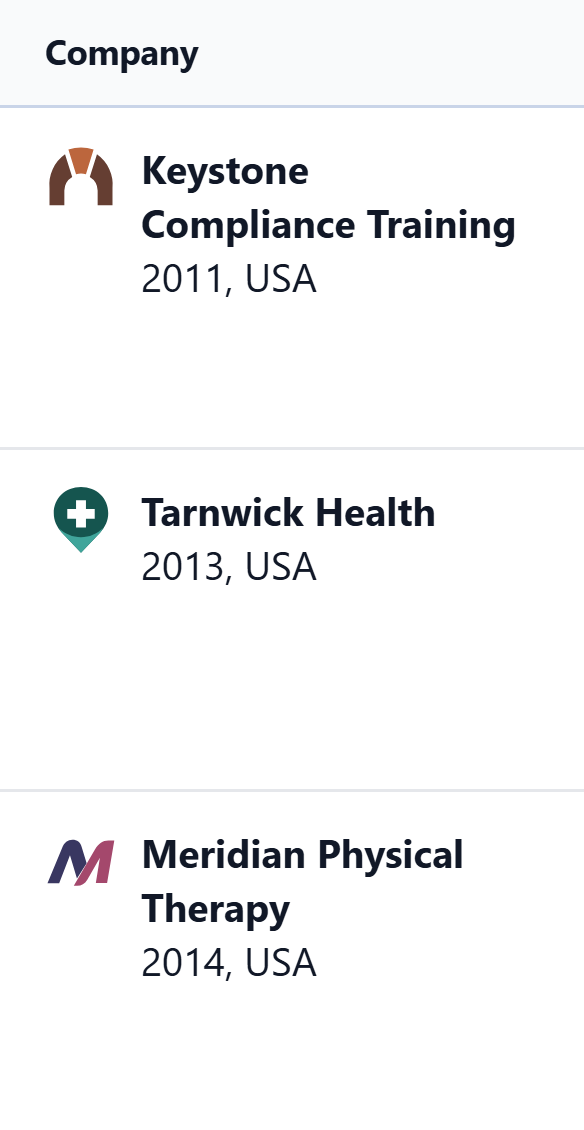
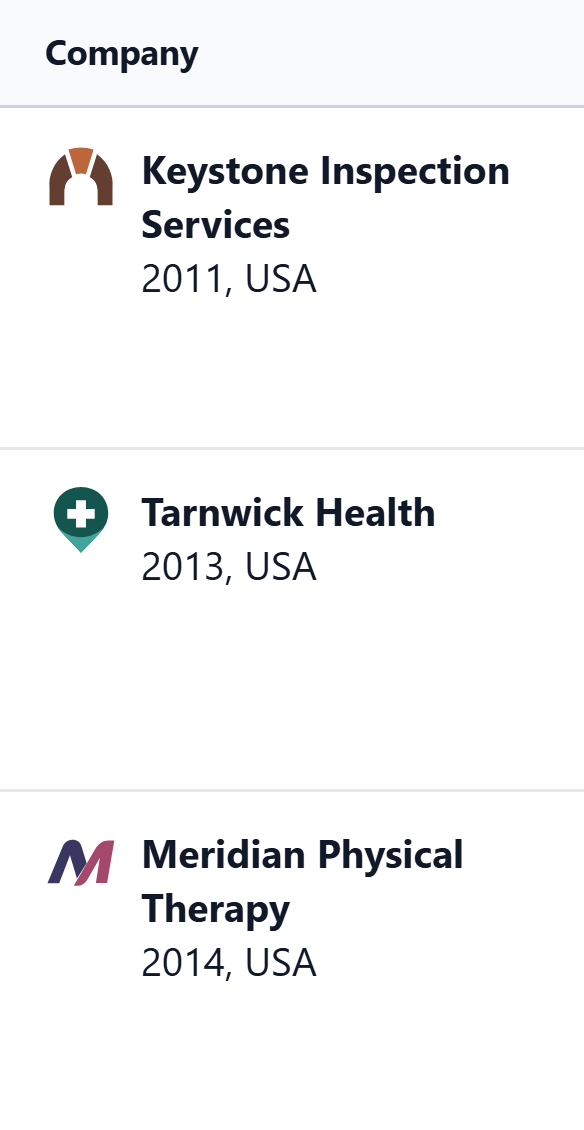
Broaden the sample portfolio with fleet software and inspection services

Changed region(s): [[0.2466, 0.1239, 0.8938, 0.2168]]

diff --git a/index.html b/index.html
@@ -1345,7 +1345,7 @@ h2 .soft { color:inherit; }
 <g class="lt" data-i="card1"><rect class="halo" x="669.0" y="467.0" width="210.6" height="122.8" rx="16.1" ry="33.1" fill="none" stroke="#6FAEF0" stroke-opacity=".28" stroke-width="10"/>
 <rect x="672.0" y="470.0" width="204.6" height="116.8" rx="14.1" ry="31.1" fill="#6FAEF0" fill-opacity=".12" stroke="#6FAEF0" stroke-width="2.5"/><g transform="translate(672.0 470.0) scale(1.279 2.931)"><rect x="9" y="8.5" width="24" height="23" rx="6" fill="#6FAEF0" fill-opacity=".3"/><text x="21" y="24" text-anchor="middle" font-size="10" font-weight="650" fill="#6FAEF0">TH</text><text x="41" y="17.5" font-size="11.5" font-weight="650" fill="#fff">New prospect</text><text x="41" y="31" font-size="10.5" fill="#fff" fill-opacity=".8">Tarnwick Health</text></g></g>
 <g class="lt" data-i="card2"><rect class="halo" x="621.0" y="822.0" width="188.1" height="102.7" rx="14.5" ry="27.7" fill="none" stroke="#D9A9C2" stroke-opacity=".28" stroke-width="10"/>
-<rect x="624.0" y="825.0" width="182.1" height="96.7" rx="12.5" ry="25.7" fill="#D9A9C2" fill-opacity=".12" stroke="#D9A9C2" stroke-width="2.5"/><g transform="translate(624.0 825.0) scale(1.138 2.428)"><rect x="9" y="8.5" width="24" height="23" rx="6" fill="#D9A9C2" fill-opacity=".3"/><text x="21" y="24" text-anchor="middle" font-size="10" font-weight="650" fill="#D9A9C2">HL</text><text x="41" y="17.5" font-size="11.5" font-weight="650" fill="#fff">Diligence document</text><text x="41" y="31" font-size="9.2" fill="#fff" fill-opacity=".8">Halden Learning Systems</text></g></g>
+<rect x="624.0" y="825.0" width="182.1" height="96.7" rx="12.5" ry="25.7" fill="#D9A9C2" fill-opacity=".12" stroke="#D9A9C2" stroke-width="2.5"/><g transform="translate(624.0 825.0) scale(1.138 2.428)"><rect x="9" y="8.5" width="24" height="23" rx="6" fill="#D9A9C2" fill-opacity=".3"/><text x="21" y="24" text-anchor="middle" font-size="10" font-weight="650" fill="#D9A9C2">HF</text><text x="41" y="17.5" font-size="11.5" font-weight="650" fill="#fff">Diligence document</text><text x="41" y="31" font-size="9.2" fill="#fff" fill-opacity=".8">Halden Fleet Systems</text></g></g>
 <g class="lt" data-i="card0"><rect class="halo" x="565.0" y="1169.0" width="172.3" height="79.5" rx="13.4" ry="21.6" fill="none" stroke="#6FCB9B" stroke-opacity=".28" stroke-width="10"/>
 <rect x="568.0" y="1172.0" width="166.3" height="73.5" rx="11.4" ry="19.6" fill="#6FCB9B" fill-opacity=".12" stroke="#6FCB9B" stroke-width="2.5"/><g transform="translate(568.0 1172.0) scale(1.039 1.845)"><rect x="9" y="8.5" width="24" height="23" rx="6" fill="#6FCB9B" fill-opacity=".3"/><text x="21" y="24" text-anchor="middle" font-size="10" font-weight="650" fill="#6FCB9B">CL</text><text x="41" y="17.5" font-size="11.5" font-weight="650" fill="#fff">Customer KPIs</text><text x="41" y="31" font-size="10.5" fill="#fff" fill-opacity=".8">Corvel Learning</text></g></g>
 <g class="lt" data-i="card3"><rect class="halo" x="517.0" y="1453.0" width="161.3" height="59.3" rx="12.7" ry="16.2" fill="none" stroke="#E2C27E" stroke-opacity=".28" stroke-width="10"/>
@@ -1358,7 +1358,7 @@ h2 .soft { color:inherit; }
       <button type="button" class="pause m17p" id="m17p" aria-label="Pause the moving picture"><svg viewBox="0 0 10 10" aria-hidden="true"><path d="M1 0h3v10H1zM6 0h3v10H6z"/></svg></button>
       <ol>
         <li class="card" id="card1" style="--sc:#6FAEF0" data-s="0"><span class="who"><i style="--c:var(--d0)"></i><b>Tarnwick Health</b> Sourcing</span><span class="why">Scores 91 of 100 against your criteria</span><a class="next" href="#sourcing-queue" data-sourcing-link>See why Tarnwick scored 91</a></li>
-        <li class="card" id="card2" style="--sc:#D9A9C2" data-s="1"><span class="who"><i style="--c:var(--d1)"></i><b>Halden Learning Systems</b> Prospect evaluation</span><span class="why">Red flag: $1.9M of FY26 EBITDA is one-time</span><a class="next" href="#evaluation">See the adjustments before you bid</a></li>
+        <li class="card" id="card2" style="--sc:#D9A9C2" data-s="1"><span class="who"><i style="--c:var(--d1)"></i><b>Halden Fleet Systems</b> Prospect evaluation</span><span class="why">Red flag: $1.9M of FY26 EBITDA is one-time</span><a class="next" href="#evaluation">See the adjustments before you bid</a></li>
         <li class="card" id="card0" style="--sc:#6FCB9B" data-s="2" data-t="3"><span class="who"><i style="--c:var(--d2)"></i><b>Corvel Learning</b> Portfolio monitoring</span><span class="why">$1.2M of ARR lost across 41 customers in FY26</span><a class="next" href="#corvel-retention">Compare Corvel’s retention with its peers</a></li>
         <li class="card" id="card3" style="--sc:#E2C27E" data-s="3"><span class="who"><i style="--c:var(--d3)"></i><b>Corvel Learning</b> Value creation</span><span class="why">A plan to improve net retention</span><a class="next" href="#value-creation">See the plan, ranked by what to act on first</a></li>
       </ol>
@@ -1376,14 +1376,14 @@ h2 .soft { color:inherit; }
     <div class="k2">
       <figure class="k2f">
         <div class="k2tags" aria-hidden="true"><span style="--r:43.6%">Marketed figures</span><span style="--r:20.8%">Portfolio actuals</span><span style="--r:1.9%">Nine holdings</span></div>
-        <img class="crop k2wide" src="assets/asset-02.png?v=compact-header" width="1076" height="374" alt="Part of the comparison view, with invented data: Halden Learning Systems’ marketed FY26 figures, Corvel Learning’s FY26 actuals, and the portfolio median across nine holdings. Revenue $51.0M, $31.0M and $58.2M. ARR $46.8M, $28.6M and $41.5M. Revenue growth 18.5%, 14.2% and 13.6%. EBITDA $16.2M, $7.4M and $11.4M. EBITDA margin 31.8%, 23.9% and 19.6%.">
+        <img class="crop k2wide" src="assets/asset-02.png?v=fleet-systems" width="1076" height="374" alt="Part of the comparison view, with invented data: Halden Fleet Systems’ marketed FY26 figures, Corvel Learning’s FY26 actuals, and the portfolio median across nine holdings. Revenue $51.0M, $31.0M and $58.2M. ARR $46.8M, $28.6M and $41.5M. Revenue growth 18.5%, 14.2% and 13.6%. EBITDA $16.2M, $7.4M and $11.4M. EBITDA margin 31.8%, 23.9% and 19.6%.">
         <div class="k2st">
           <table class="company-comparison" aria-label="FY26 revenue growth and EBITDA margin">
             <thead>
               <tr><th scope="col">Company</th><th scope="col">Revenue growth</th><th scope="col">EBITDA margin</th></tr>
             </thead>
             <tbody>
-              <tr><th scope="row">Halden<span>Marketed figures</span></th><td>18.5%</td><td>31.8%</td></tr>
+              <tr><th scope="row">Halden Fleet<span>Marketed figures</span></th><td>18.5%</td><td>31.8%</td></tr>
               <tr><th scope="row">Corvel<span>Portfolio actuals</span></th><td>14.2%</td><td>23.9%</td></tr>
               <tr><th scope="row">Portfolio median<span>Nine holdings</span></th><td>13.6%</td><td>19.6%</td></tr>
             </tbody>
@@ -1403,15 +1403,15 @@ h2 .soft { color:inherit; }
     <div class="panel q4">
 
       <div id="sourcing-queue" role="group" aria-label="Prospects ranked by fit score" tabindex="-1">
-      <img class="crop q4wide" src="assets/asset-03.png?v=prospect-marks" width="1033" height="565" alt="Description, Strategic Fit and Concerns for the first three prospects by fit score. Invented data. Keystone Compliance Training, 92: mandated yearly training makes renewals dependable; main concern, two hospital systems make up a large share of revenue. Tarnwick Health, 91: agencies use it every shift to meet state visit-verification rules, so customers stay through staff turnover; main concern, most customers are in three states. Meridian Physical Therapy, 88: a dense clinic footprint with room to add sites in neighboring counties; main concern, therapist hiring sets the pace of new clinic openings.">
+      <img class="crop q4wide" src="assets/asset-03.png?v=keystone-inspection" width="1033" height="565" alt="Description, Strategic Fit and Concerns for the first three prospects by fit score. Invented data. Keystone Inspection Services scores 92. It tests fire alarms and sprinklers at commercial properties. Multi-year contracts cover annual inspections. Two property managers account for a large share of revenue. Tarnwick Health, 91: agencies use it every shift to meet state visit-verification rules, so customers stay through staff turnover; main concern, most customers are in three states. Meridian Physical Therapy, 88: a dense clinic footprint with room to add sites in neighboring counties; main concern, therapist hiring sets the pace of new clinic openings.">
       <div class="q4narrow">
         <ol class="sourcing-prospects" role="list" aria-label="First three prospects by fit score, with invented data">
           <li>
             <details>
-              <summary><span class="prospect-identity"><img src="assets/keystone-compliance-mark.svg" width="24" height="24" alt="">Keystone Compliance Training</span><strong><span class="sr">Fit score </span>92<span aria-hidden="true">/100</span><span class="sr"> out of 100</span></strong></summary>
+              <summary><span class="prospect-identity"><img src="assets/keystone-inspection-mark.svg" width="24" height="24" alt="">Keystone Inspection Services</span><strong><span class="sr">Fit score </span>92<span aria-hidden="true">/100</span><span class="sr"> out of 100</span></strong></summary>
               <div class="prospect-evidence">
-                <p>Online compliance courses for healthcare employers.</p>
-                <dl><dt>Strategic fit</dt><dd>Mandated yearly training makes renewals dependable.</dd><dt>Concern</dt><dd>Two hospital systems make up a large share of revenue.</dd></dl>
+                <p>Tests fire alarms and sprinklers at commercial properties.</p>
+                <dl><dt>Strategic fit</dt><dd>Multi-year contracts cover annual inspections.</dd><dt>Concern</dt><dd>Two property managers account for a large share of revenue.</dd></dl>
               </div>
             </details>
           </li>
@@ -1455,7 +1455,7 @@ h2 .soft { color:inherit; }
     <div class="evaluation-exhibits">
       <figure class="evaluation-file" aria-label="Halden’s diligence checklist and draft investment committee memo">
         <div class="diligence-checklist">
-          <p class="diligence-company">Halden Learning Systems</p>
+          <p class="diligence-company">Halden Fleet Systems</p>
           <p class="diligence-heading"><b>Diligence checklist</b><span>2 red flags, 2 not started</span></p>
           <button class="diligence-toggle" type="button" aria-expanded="false" aria-controls="workstreams"><strong>Halden’s diligence checklist</strong><span>2 red flags, 2 not started</span></button>
           <ol id="workstreams" role="list">
@@ -1475,16 +1475,16 @@ h2 .soft { color:inherit; }
           <g data-from="t-tech" data-to="m-tech"><path fill="none" stroke-dasharray="2 4"/><circle r="2.4" stroke="none"/><circle r="2.4" stroke="none"/></g>
         </svg>
         <div class="diligence-memo">
-          <p class="memo-title"><b>IC Synthesis</b><span>Halden Learning Systems, draft</span></p>
+          <p class="memo-title"><b>IC Synthesis</b><span>Halden Fleet Systems, draft</span></p>
           <p class="memo-heading">Executive summary</p>
-          <p>Workforce learning. FY26 revenue $51.0M, EBITDA $16.2M.</p>
+          <p>Fleet maintenance software for commercial operators. FY26 revenue $51.0M, EBITDA $16.2M.</p>
           <p class="memo-heading">Financial analysis</p>
           <p>Revenue growth 18.5%, EBITDA margin 31.8%.</p>
           <p class="memo-heading">Market &amp; competition</p>
           <p>Its closest rival has just been acquired.</p>
           <p class="memo-heading">Key risks &amp; mitigants</p>
           <p class="memo-risk" id="m-fin"><i class="diligence-flag"></i>Red flag: $1.9M of FY26 EBITDA is one-time</p>
-          <p class="memo-risk" id="m-tech"><i class="diligence-flag"></i>Red flag: aging course platform</p>
+          <p class="memo-risk" id="m-tech"><i class="diligence-flag"></i>Red flag: aging work-order platform</p>
         </div>
       </figure>
     </div>
@@ -1625,12 +1625,12 @@ h2 .soft { color:inherit; }
     </div>
     <div class="src2">
       <figure class="chg9">
-        <img class="crop" src="assets/asset-09.png" width="470" height="323" alt="The What changed panel of the FirmCortex Home page, with invented data. Five changes, each with a link to its source: competitor news on a live deal, Halden Learning Systems; its financials ingested, FY2026 revenue 51.0 million dollars and EBITDA 16.2 million; competitor news on a portfolio company, Corvel Learning; a market study completed; and news on a portfolio company, Aldergate Services.">
+        <img class="crop" src="assets/asset-09.png?v=fleet-systems" width="470" height="323" alt="What changed feed with illustrative data. A strategic buyer acquired Halden Fleet Systems’ closest fleet software rival. Halden reported $51.0M revenue and $16.2M EBITDA in FY26. Other rows cover Corvel Learning, the Fire Safety Inspection Market Study and Aldergate Services. Each update has a source link.">
       </figure>
       <img class="link9" src="assets/verification-connector.svg" width="80" height="20" alt="" aria-hidden="true">
       <figure class="src9">
-        <div class="fig9"><span class="lab9">Halden Learning Systems, FY26 revenue</span><b>$51.0M</b></div>
-        <figcaption class="row9 citation"><span>Source</span>Halden data room, FY26 financials, P&amp;L sheet, cell D14.</figcaption>
+        <div class="fig9"><span class="lab9">Halden Fleet Systems, FY26 revenue</span><b>$51.0M</b></div>
+        <figcaption class="row9 citation"><span>Source</span>Halden Fleet Systems FY26 Financials.xlsx, P&amp;L sheet, cell D14.</figcaption>
       </figure>
     </div>
   </div>
